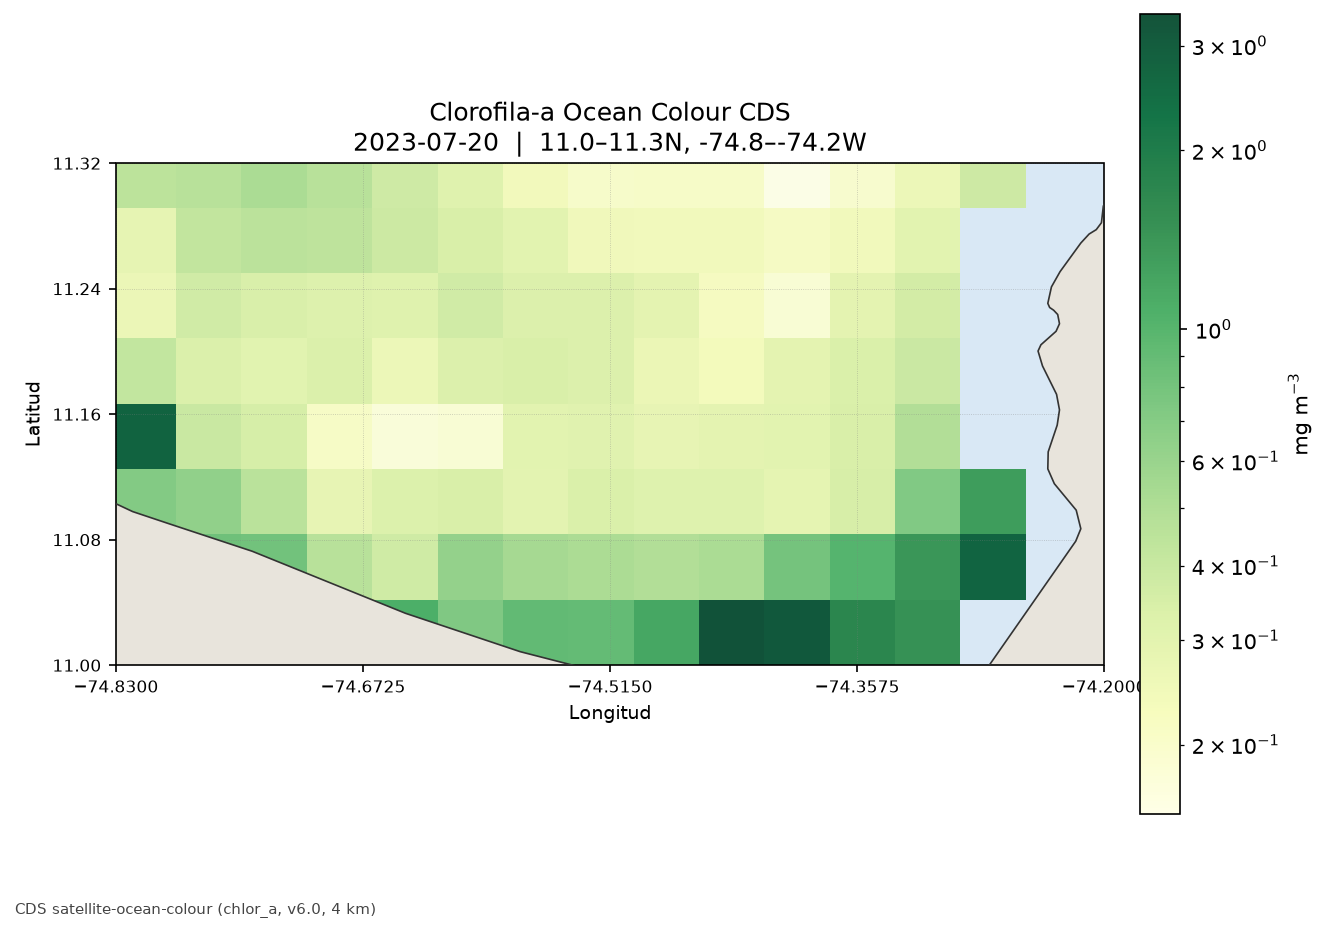
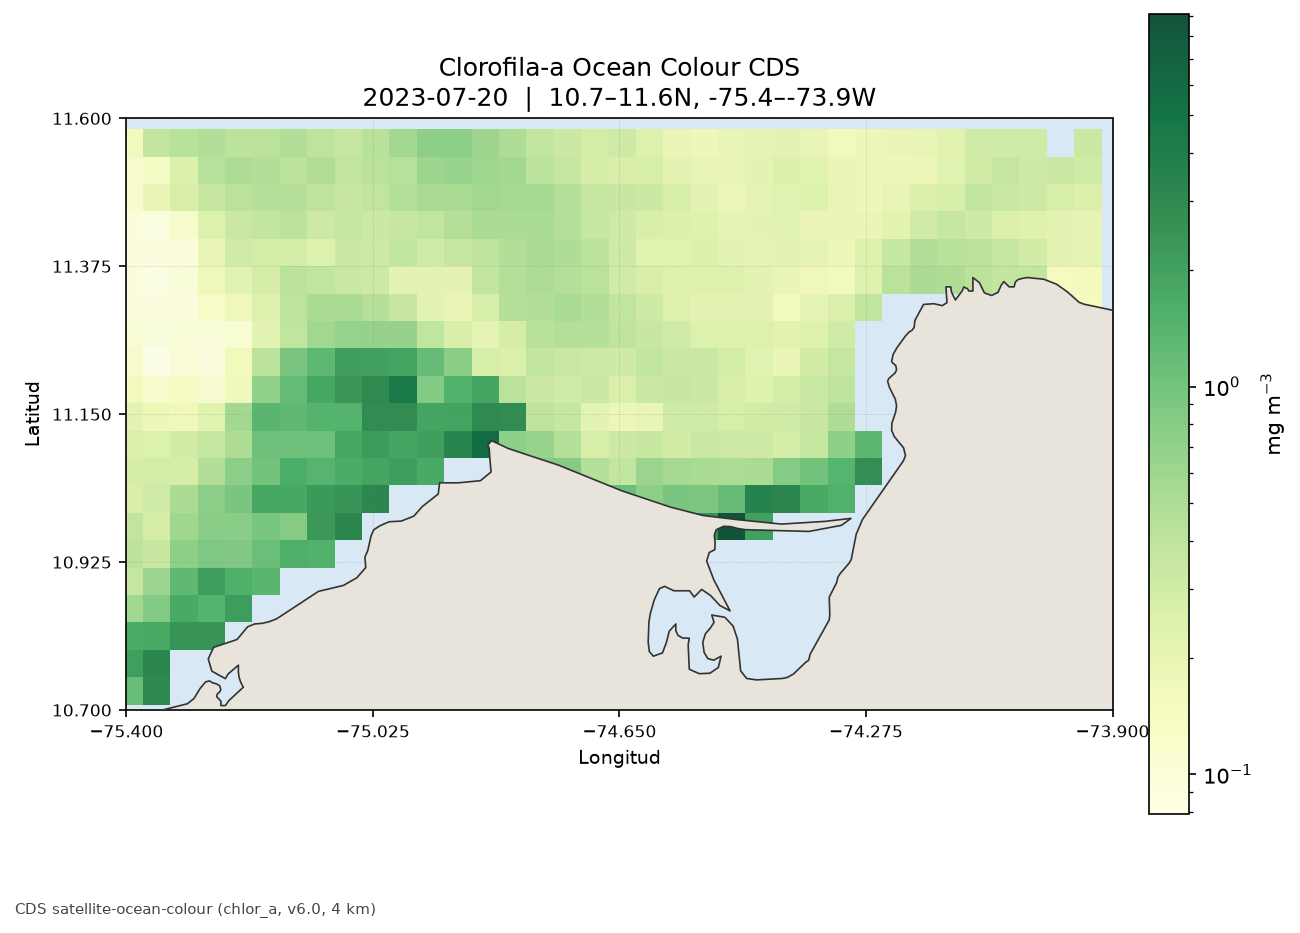
Use an intermediate Santa Marta bbox for ocean maps
Set extent to 10.7–11.6N, 75.4–73.9W for more context without
the previous regional Caribbean view.

diff --git a/scripts/download_and_map_ocean.py b/scripts/download_and_map_ocean.py
@@ -28,9 +28,9 @@ import requests
 import xarray as xr
 from matplotlib.colors import LogNorm
 
-# Bbox solicitado (cerca de Santa Marta)
-LAT_S, LAT_N = 11.00, 11.32
-LON_W, LON_E = -74.83, -74.20
+# Bbox intermedio alrededor de Santa Marta
+LAT_S, LAT_N = 10.70, 11.60
+LON_W, LON_E = -75.40, -73.90
 DATE = "2023-07-20"
 YEAR, MONTH, DAY = DATE.split("-")
 

diff --git a/README.md b/README.md
@@ -6,10 +6,10 @@ Descarga de un día/mes de variables oceánicas desde el **Climate Data Store (C
 
 | Límite | Valor     |
 |--------|-----------|
-| Norte  | 11.32° N  |
-| Sur    | 11.00° N  |
-| Este   | -74.20° W |
-| Oeste  | -74.83° W |
+| Norte  | 11.60° N  |
+| Sur    | 10.70° N  |
+| Este   | -73.90° W |
+| Oeste  | -75.40° W |
 
 ## Fecha
 
